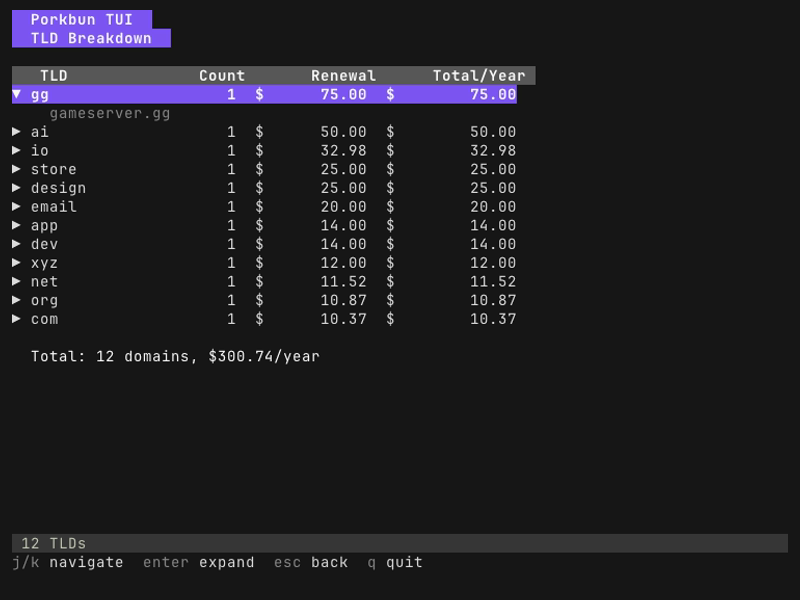
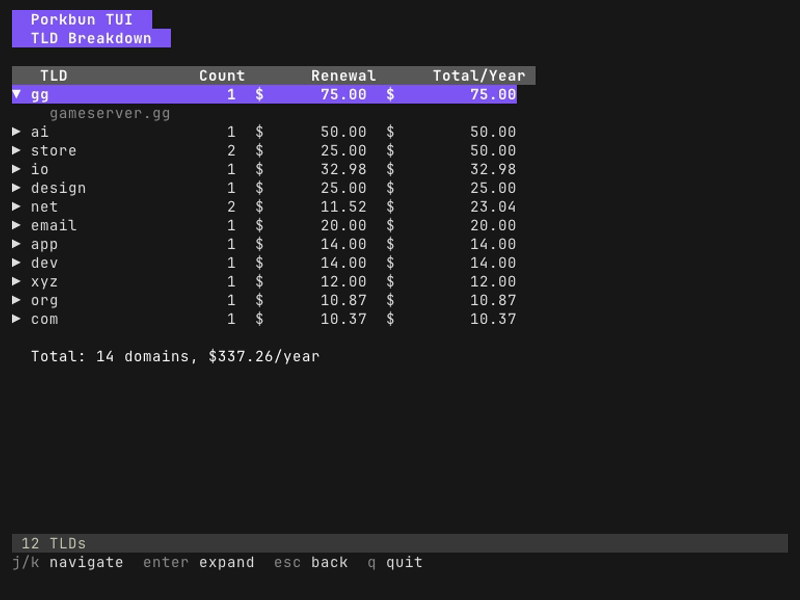
Demo-mode availability checks, richer demo data, updated screenshots
Demo mode now supports the availability checker with deterministic
canned results (famous/short names are taken; others are available at
the demo pricing table's registration price), so the feature is usable
without credentials and can be captured by the VHS tape. Purchase stays
blocked in demo mode — arming it would send y to the nil client, and a
fake money flow would mislead.

Demo data gains two near-expiry domains so the Days column shows its
full color range. The tape adds an availability scene and a Down/Up
wiggle before the detail-view capture: vhs 0.11 otherwise resolves that
screenshot to the pre-Enter frame (verified: the identical capture
reproduced deterministically in the full tape and never in a short
one). Screenshots regenerated; README gains the availability shot.

diff --git a/internal/demo/data.go b/internal/demo/data.go
@@ -1,6 +1,7 @@
 package demo
 
 import (
+	"strings"
 	"time"
 
 	"github.com/bc/porkbun-tui/internal/api"
@@ -22,7 +23,34 @@ func Domains() []api.Domain {
 		{Name: "cryptotrader.xyz", TLD: "xyz", CreateDate: now.AddDate(-3, 0, 0), ExpireDate: now.AddDate(0, 0, 15), AutoRenew: false, Status: "ACTIVE", SecurityLock: false, WhoisPrivacy: true},
 		{Name: "mailservice.email", TLD: "email", CreateDate: now.AddDate(-1, -5, 0), ExpireDate: now.AddDate(0, 7, 0), AutoRenew: true, Status: "ACTIVE", SecurityLock: true, WhoisPrivacy: true},
 		{Name: "aistartup.ai", TLD: "ai", CreateDate: now.AddDate(0, -9, 0), ExpireDate: now.AddDate(0, 2, 15), AutoRenew: true, Status: "ACTIVE", SecurityLock: true, WhoisPrivacy: true},
+		// Near-expiry entries so the Days column shows its full color range.
+		{Name: "legacyforum.net", TLD: "net", CreateDate: now.AddDate(-8, 0, 0), ExpireDate: now.AddDate(0, 0, 3), AutoRenew: false, Status: "ACTIVE", SecurityLock: false, WhoisPrivacy: false},
+		{Name: "sidehustle.store", TLD: "store", CreateDate: now.AddDate(-1, 0, 0), ExpireDate: now.AddDate(0, 0, 25), AutoRenew: false, Status: "ACTIVE", SecurityLock: false, WhoisPrivacy: true},
 	}
+}
+
+// takenNames read as registered in demo mode so checks show both outcomes.
+var takenNames = map[string]bool{
+	"google": true, "porkbun": true, "github": true, "apple": true,
+	"amazon": true, "example": true,
+}
+
+// CheckAvailability returns a deterministic canned result for demo mode:
+// famous or short names are taken, everything else is available at the demo
+// pricing table's registration price.
+func CheckAvailability(domain string) *api.AvailabilityResult {
+	d := strings.ToLower(strings.TrimSpace(domain))
+	name, tld, _ := strings.Cut(d, ".")
+
+	if takenNames[name] || len(name) <= 4 {
+		return &api.AvailabilityResult{Domain: d, Available: false}
+	}
+
+	price := "12.99"
+	if p, ok := Pricing()[tld]; ok {
+		price = p.Registration
+	}
+	return &api.AvailabilityResult{Domain: d, Available: true, Price: price}
 }
 
 // Pricing returns sample TLD pricing data for demo mode

diff --git a/internal/tui/app_test.go b/internal/tui/app_test.go
@@ -183,12 +183,56 @@ func TestViewSwitchingKeys(t *testing.T) {
 	}
 }
 
+func TestDemoModeAllowsAvailabilityWithCannedChecks(t *testing.T) {
+	a := NewApp(nil, nil, []api.Domain{{Name: "example.com", TLD: "com"}}, nil, true)
+
+	a, _ = update(t, a, keyMsg("a"))
+	if a.view != ViewAvailability {
+		t.Fatalf("view = %v after a in demo mode, want ViewAvailability", a.view)
+	}
+
+	for _, r := range "coolstartup.dev" {
+		a, _ = update(t, a, keyMsg(string(r)))
+	}
+	a, cmd := update(t, a, tea.KeyMsg{Type: tea.KeyEnter})
+	if cmd == nil {
+		t.Fatal("no check command queued in demo mode")
+	}
+
+	msg := cmd() // must be canned data, not a nil-client API call
+	result, ok := msg.(availabilityResultMsg)
+	if !ok {
+		t.Fatalf("demo check returned %T, want availabilityResultMsg", msg)
+	}
+	if result.result.Domain != "coolstartup.dev" {
+		t.Errorf("result.Domain = %q, want coolstartup.dev", result.result.Domain)
+	}
+}
+
+func TestDemoModeBlocksPurchase(t *testing.T) {
+	a := NewApp(nil, nil, nil, nil, true)
+	a.view = ViewAvailability
+	a, _ = update(t, a, availabilityResultMsg{&api.AvailabilityResult{
+		Domain: "coolstartup.dev", Available: true, Price: "14.00",
+	}})
+
+	a, cmd := update(t, a, tea.KeyMsg{Type: tea.KeyCtrlB})
+
+	if a.availabilityView.IsConfirming() {
+		t.Fatal("purchase confirmation armed in demo mode; y would call the nil client")
+	}
+	if cmd != nil {
+		t.Error("ctrl+b queued a command in demo mode")
+	}
+}
+
 func TestDemoModeBlocksAPIDependentViews(t *testing.T) {
 	// Domains must be loaded so SelectedDomain() is non-nil: without one the
 	// d/n handlers bail out on their own and the guard assertions are vacuous.
+	// The availability view is demo-allowed (canned checks), so a is absent.
 	domains := []api.Domain{{Name: "example.com", TLD: "com"}}
 
-	for _, k := range []string{"a", "d", "n", "r"} {
+	for _, k := range []string{"d", "n", "r"} {
 		a := NewApp(nil, nil, domains, nil, true)
 		a2, cmd := update(t, a, keyMsg(k))
 		if a2.view != ViewDomains {

diff --git a/internal/tui/app.go b/internal/tui/app.go
@@ -6,6 +6,7 @@ import (
 
 	"github.com/bc/porkbun-tui/internal/api"
 	"github.com/bc/porkbun-tui/internal/cache"
+	"github.com/bc/porkbun-tui/internal/demo"
 	"github.com/bc/porkbun-tui/internal/keys"
 	"github.com/bc/porkbun-tui/internal/styles"
 	"github.com/bc/porkbun-tui/internal/tui/views"
@@ -219,6 +220,11 @@ func (a *App) saveNameservers(domain string, ns []string) tea.Cmd {
 }
 
 func (a *App) checkAvailability(domain string) tea.Cmd {
+	if a.demoMode {
+		return func() tea.Msg {
+			return availabilityResultMsg{demo.CheckAvailability(domain)}
+		}
+	}
 	return func() tea.Msg {
 		result, err := a.client.CheckAvailability(context.Background(), domain)
 		if err != nil {
@@ -438,9 +444,7 @@ func (a *App) updateDomains(msg tea.KeyMsg) (tea.Model, tea.Cmd) {
 			return a, nil
 
 		case key.Matches(msg, keys.Keys.Avail):
-			if a.demoMode {
-				return a, nil // No availability check in demo mode
-			}
+			// Allowed in demo mode: checks return canned demo results.
 			a.view = ViewAvailability
 			return a, a.availabilityView.Focus()
 
@@ -556,6 +560,9 @@ func (a *App) updateAvailability(msg tea.KeyMsg) (tea.Model, tea.Cmd) {
 	}
 
 	if msg.String() == "ctrl+b" {
+		if a.demoMode {
+			return a, nil // No purchases in demo mode; y would hit the nil client
+		}
 		a.availabilityView.StartBuyConfirmation()
 		return a, nil
 	}

diff --git a/internal/demo/data_test.go b/internal/demo/data_test.go
@@ -1,0 +1,43 @@
+package demo
+
+import "testing"
+
+func TestCheckAvailabilityIsDeterministic(t *testing.T) {
+	a := CheckAvailability("coolstartup.dev")
+	b := CheckAvailability("coolstartup.dev")
+	if *a != *b {
+		t.Errorf("same input gave different results: %+v vs %+v", a, b)
+	}
+}
+
+func TestCheckAvailabilityFamousNamesAreTaken(t *testing.T) {
+	for _, domain := range []string{"google.com", "porkbun.com", "github.io"} {
+		r := CheckAvailability(domain)
+		if r.Available {
+			t.Errorf("CheckAvailability(%q).Available = true, want taken", domain)
+		}
+		if r.Price != "" {
+			t.Errorf("taken domain %q has price %q, want empty", domain, r.Price)
+		}
+	}
+}
+
+func TestCheckAvailabilityLongNamesAreAvailableWithTLDPricing(t *testing.T) {
+	r := CheckAvailability("coolstartup.dev")
+	if !r.Available {
+		t.Fatal("coolstartup.dev should be available in demo data")
+	}
+	if want := Pricing()["dev"].Registration; r.Price != want {
+		t.Errorf("price = %q, want %q from the demo pricing table", r.Price, want)
+	}
+}
+
+func TestCheckAvailabilityUnknownTLDGetsFallbackPrice(t *testing.T) {
+	r := CheckAvailability("somethinglong.pizza")
+	if !r.Available {
+		t.Fatal("somethinglong.pizza should be available in demo data")
+	}
+	if r.Price == "" {
+		t.Error("available domain has no price")
+	}
+}

diff --git a/README.md b/README.md
@@ -21,6 +21,9 @@ A terminal UI for managing your [Porkbun](https://porkbun.com) domains.
 ### Calendar View
 ![Calendar View](screenshots/calendar-list-view.png)
 
+### Availability Checker
+![Availability Checker](screenshots/availability-view.png)
+
 </details>
 
 ## Features
